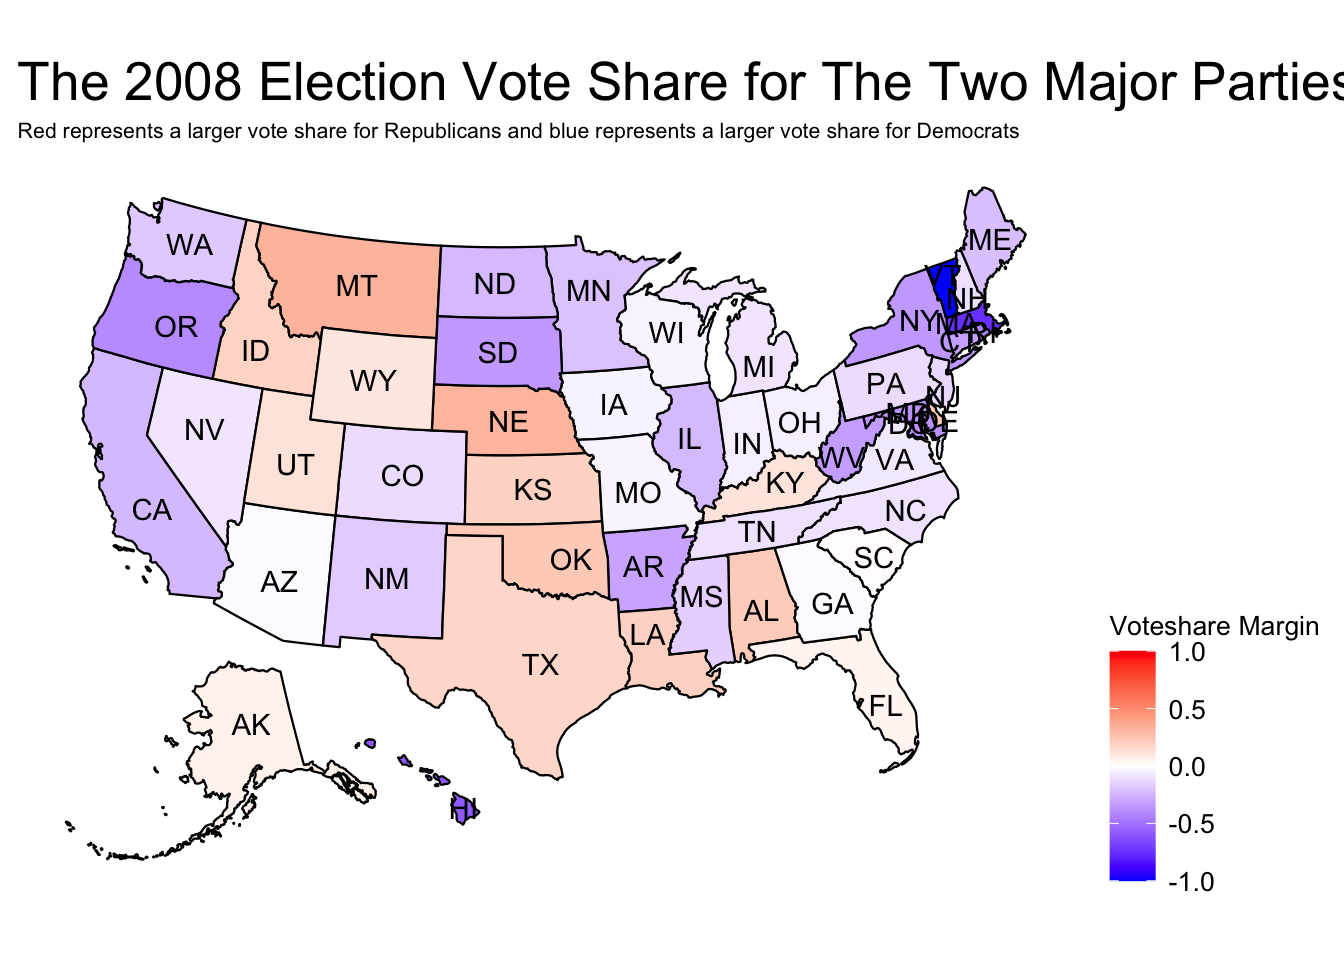
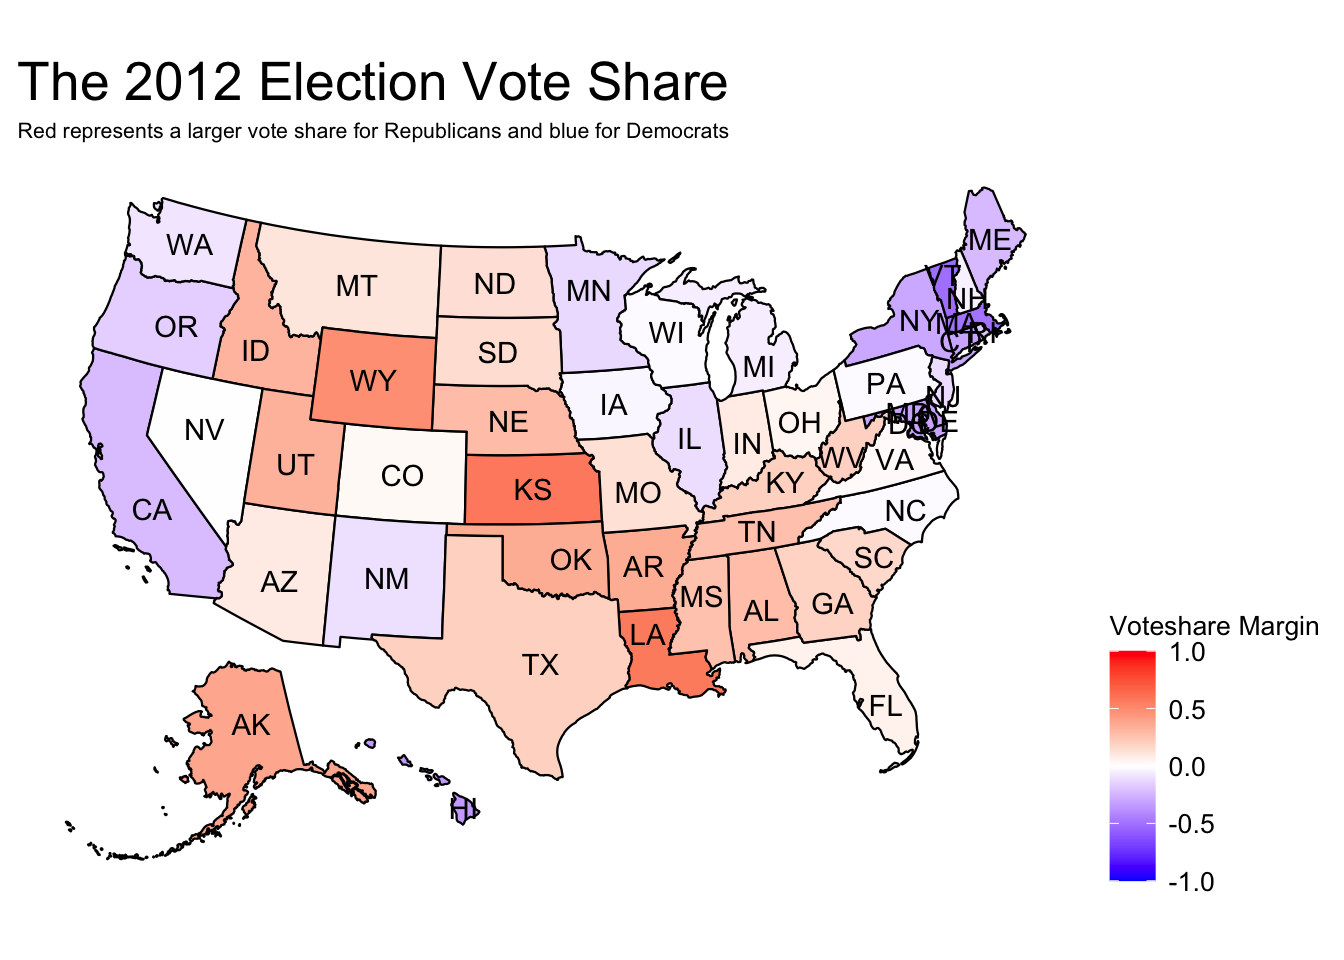
Added write-up for blog 1

diff --git a/public/post/2022-09-11-blog-1/index.html b/public/post/2022-09-11-blog-1/index.html
@@ -6,7 +6,7 @@
 		<meta charset="UTF-8">
 		<meta name="viewport" content="width=device-width, initial-scale=1.0">
 
-		<title>Blog 1 &middot; Amiel&#39;s Election Analytics Blog</title>
+		<title>2022 Midterm Forecast Introduction &middot; Amiel&#39;s Election Analytics Blog</title>
 
 		
 		<link rel="stylesheet" href="/css/style.css">
@@ -56,7 +56,7 @@
         <span>on&nbsp;</span><time datetime="2022-09-11 00:00:00 &#43;0000 UTC">September 11, 2022</time>
 </div>
 
-		<h1 class="post-title">Blog 1</h1>
+		<h1 class="post-title">2022 Midterm Forecast Introduction</h1>
 <div class="post-line"></div>
 
 		
@@ -64,8 +64,21 @@
 		
 
 
-<p><img src="http://example.org/post/2022-09-11-blog-1/index_files/figure-html/unnamed-chunk-5-1.png" width="672" /></p>
+<p><em>This blog is part of a series related to Gov 1347: Election Analytics, a course at Harvard University taught by Professor <a href="https://http://ryandenos.com/">Ryan D. Enos</a>.</em></p>
+<p>From now until November 3, I will be updating this weekly blog series with my 2022 US midterm election prediction model. For this first blog, I’ll be comparing the 2012 House election results to the 2014 House Midterm election results to find any trends in the data during a democratic presidential term. More specifically, I’ll be diving into the change seen from a presidential election year where a Democratic president was re-elected to the subsequent midterm election year and using that as a preliminary basis on what to base this year’s midterm forecasts on as we see a Democrat incumbent president this midterm year.</p>
+<p>This forecast will seek to answer the question, <strong>How do Democrats perform in the midterm elections when they are the incumbent party?</strong></p>
+<p>This analysis predicts that the party of the incumbent president typically performs poorly during the midterm elections and Democratic Party presidents are no exception. It is common knowledge among many political scientists, politicians, and pollsters that the incumbent party always does worse during the midterm election than in the presidential election and this analysis shows that this is true for Obama in 2012 and 2014 and is potentially what we can expect to see this year in 2022<sup>1</sup>.</p>
+<p><img src="http://example.org/post/2022-09-11-blog-1/index_files/figure-html/unnamed-chunk-5-1.png" width="672" />
+The Democrats can be seen to perform okay in the 2012 House elections with a number of states having vote-shares favorable toward the Democrats compared to the 2010 election. This can also be observed by the Democrats picking up 8 seats in the House since 2010, although they are still the minority party in the House with the Republicans still on 234 seats. There are a number of states that show no tilt in vote-share toward either the Democrats or Republicans in this year such as Nevada, Colorado, Iowa, Wisconsin, Pennsylvania, Virginia, and North Carolina. There is a strong vote share for Republicans in Wyoming, Kansas, and Louisiana, and a strong vote share for Democrats in Massachusetts, Vermont, Delaware, and Maryland. This was a year in which a Democratic President was re-elected yet still did not have a majority in the House.</p>
 <p><img src="http://example.org/post/2022-09-11-blog-1/index_files/figure-html/unnamed-chunk-6-1.png" width="672" /><img src="http://example.org/post/2022-09-11-blog-1/index_files/figure-html/unnamed-chunk-6-2.png" width="672" /></p>
+<p>The 2014 midterm elections show a different story compared to 2012. The states that previously had no tilt in vote share toward either the Democrats or the Republicans now <strong>all</strong> show a higher vote share for the Republicans, suggesting that the Republicans actually performed better in these battleground states than they did in 2012, thus beating the Democrats. The Democrats still held onto some states, however, their vote shares in these states did in fact decrease since 2012 as can be seen by lighter blues in the map suggesting that the Democrats did not perform as well as they did in the 2012 election, both in states that they lost but also in states that they typically win<sup>2</sup>.</p>
+<p>When looking at the map of congressional districts in 2014, it can be seen that much of the Democrat vote share in 2014 is largely concentrated in urban areas and the Republicans have the upper-hand elsewhere. This is fairly common in elections where the Democrats perform much better in cities and urban cores and Republicans do better in more rural population areas<sup>3</sup>. Urban cores can be seen to have much more concentrated huge support for the Democrats with some reaching nearly 100% support, yet the rest of states outside of cities has more support for Republicans than Democrats, therefore making states tilt more Republican in 2014.</p>
+<p>By looking at the 2012 and 2014 vote share results, we can see that the Democrats performed worse in the midterm election than in the presidential election with the Republicans achieving a higher vote share than the Democrats in all of the battleground swing states and in previously safe Democratic states where they decreased the Democrat’s majority vote share in those states. This reaffirms political pundits and politicians’ views that the incumbent party always performs poorly in midterm elections and 2012-2014 is no exception. By applying this to the 2022 election, we can expect the Democrats, as the current incumbent party, to perform worse than in the 2020 election in which they gained the trifecta of the House, the Senate, and the presidency.</p>
+<hr />
+<p>References</p>
+<p>[1] McCarthy, Niall. n.d. “Historically, The President’s Party Performs Poorly In The Midterms [Infographic].” Forbes. Accessed September 15, 2022. <a href="https://www.forbes.com/sites/niallmccarthy/2018/10/09/historically-the-presidents-party-performs-poorly-in-the-midterms-infographic/" class="uri">https://www.forbes.com/sites/niallmccarthy/2018/10/09/historically-the-presidents-party-performs-poorly-in-the-midterms-infographic/</a>.
+[2] Rotondi, Jessica Pearce. n.d. “What Are Swing States and How Did They Become a Key Factor in US Elections?” HISTORY. Accessed September 15, 2022. <a href="https://www.history.com/news/swing-states-presidential-elections" class="uri">https://www.history.com/news/swing-states-presidential-elections</a>.
+[3] Thompson, Derek. 2020. “Why Big-City Dominance Is a Problem for Democrats.” The Atlantic. November 26, 2020. <a href="https://www.theatlantic.com/ideas/archive/2020/11/why-big-city-dominance-problem-democrats/617161/" class="uri">https://www.theatlantic.com/ideas/archive/2020/11/why-big-city-dominance-problem-democrats/617161/</a>.</p>
 
 
 		
@@ -81,7 +94,7 @@
         		<footer>
 			
 			<span>
-			&copy; <time datetime="2022-09-15 01:00:20.618071 -0400 EDT m=&#43;0.882534251">2022</time> . Made with <a href='https://gohugo.io'>Hugo</a> using the <a href='https://github.com/EmielH/tale-hugo/'>Tale</a> theme.
+			&copy; <time datetime="2022-09-15 02:44:34.192218 -0400 EDT m=&#43;1.053163543">2022</time> . Made with <a href='https://gohugo.io'>Hugo</a> using the <a href='https://github.com/EmielH/tale-hugo/'>Tale</a> theme.
 			</span>
 		</footer>
 

diff --git a/content/post/2022-09-11-blog-1/index.html b/content/post/2022-09-11-blog-1/index.html
@@ -1,5 +1,5 @@
 ---
-title: Blog 1
+title: 2022 Midterm Forecast Introduction
 author: Y. Amiel Bakshi
 date: '2022-09-11'
 slug: []
@@ -9,5 +9,18 @@ tags: []
 
 
 
-<p><img src="{{< blogdown/postref >}}index_files/figure-html/unnamed-chunk-5-1.png" width="672" /></p>
+<p><em>This blog is part of a series related to Gov 1347: Election Analytics, a course at Harvard University taught by Professor <a href="https://http://ryandenos.com/">Ryan D. Enos</a>.</em></p>
+<p>From now until November 3, I will be updating this weekly blog series with my 2022 US midterm election prediction model. For this first blog, I’ll be comparing the 2012 House election results to the 2014 House Midterm election results to find any trends in the data during a democratic presidential term. More specifically, I’ll be diving into the change seen from a presidential election year where a Democratic president was re-elected to the subsequent midterm election year and using that as a preliminary basis on what to base this year’s midterm forecasts on as we see a Democrat incumbent president this midterm year.</p>
+<p>This forecast will seek to answer the question, <strong>How do Democrats perform in the midterm elections when they are the incumbent party?</strong></p>
+<p>This analysis predicts that the party of the incumbent president typically performs poorly during the midterm elections and Democratic Party presidents are no exception. It is common knowledge among many political scientists, politicians, and pollsters that the incumbent party always does worse during the midterm election than in the presidential election and this analysis shows that this is true for Obama in 2012 and 2014 and is potentially what we can expect to see this year in 2022<sup>1</sup>.</p>
+<p><img src="{{< blogdown/postref >}}index_files/figure-html/unnamed-chunk-5-1.png" width="672" />
+The Democrats can be seen to perform okay in the 2012 House elections with a number of states having vote-shares favorable toward the Democrats compared to the 2010 election. This can also be observed by the Democrats picking up 8 seats in the House since 2010, although they are still the minority party in the House with the Republicans still on 234 seats. There are a number of states that show no tilt in vote-share toward either the Democrats or Republicans in this year such as Nevada, Colorado, Iowa, Wisconsin, Pennsylvania, Virginia, and North Carolina. There is a strong vote share for Republicans in Wyoming, Kansas, and Louisiana, and a strong vote share for Democrats in Massachusetts, Vermont, Delaware, and Maryland. This was a year in which a Democratic President was re-elected yet still did not have a majority in the House.</p>
 <p><img src="{{< blogdown/postref >}}index_files/figure-html/unnamed-chunk-6-1.png" width="672" /><img src="{{< blogdown/postref >}}index_files/figure-html/unnamed-chunk-6-2.png" width="672" /></p>
+<p>The 2014 midterm elections show a different story compared to 2012. The states that previously had no tilt in vote share toward either the Democrats or the Republicans now <strong>all</strong> show a higher vote share for the Republicans, suggesting that the Republicans actually performed better in these battleground states than they did in 2012, thus beating the Democrats. The Democrats still held onto some states, however, their vote shares in these states did in fact decrease since 2012 as can be seen by lighter blues in the map suggesting that the Democrats did not perform as well as they did in the 2012 election, both in states that they lost but also in states that they typically win<sup>2</sup>.</p>
+<p>When looking at the map of congressional districts in 2014, it can be seen that much of the Democrat vote share in 2014 is largely concentrated in urban areas and the Republicans have the upper-hand elsewhere. This is fairly common in elections where the Democrats perform much better in cities and urban cores and Republicans do better in more rural population areas<sup>3</sup>. Urban cores can be seen to have much more concentrated huge support for the Democrats with some reaching nearly 100% support, yet the rest of states outside of cities has more support for Republicans than Democrats, therefore making states tilt more Republican in 2014.</p>
+<p>By looking at the 2012 and 2014 vote share results, we can see that the Democrats performed worse in the midterm election than in the presidential election with the Republicans achieving a higher vote share than the Democrats in all of the battleground swing states and in previously safe Democratic states where they decreased the Democrat’s majority vote share in those states. This reaffirms political pundits and politicians’ views that the incumbent party always performs poorly in midterm elections and 2012-2014 is no exception. By applying this to the 2022 election, we can expect the Democrats, as the current incumbent party, to perform worse than in the 2020 election in which they gained the trifecta of the House, the Senate, and the presidency.</p>
+<hr />
+<p>References</p>
+<p>[1] McCarthy, Niall. n.d. “Historically, The President’s Party Performs Poorly In The Midterms [Infographic].” Forbes. Accessed September 15, 2022. <a href="https://www.forbes.com/sites/niallmccarthy/2018/10/09/historically-the-presidents-party-performs-poorly-in-the-midterms-infographic/" class="uri">https://www.forbes.com/sites/niallmccarthy/2018/10/09/historically-the-presidents-party-performs-poorly-in-the-midterms-infographic/</a>.
+[2] Rotondi, Jessica Pearce. n.d. “What Are Swing States and How Did They Become a Key Factor in US Elections?” HISTORY. Accessed September 15, 2022. <a href="https://www.history.com/news/swing-states-presidential-elections" class="uri">https://www.history.com/news/swing-states-presidential-elections</a>.
+[3] Thompson, Derek. 2020. “Why Big-City Dominance Is a Problem for Democrats.” The Atlantic. November 26, 2020. <a href="https://www.theatlantic.com/ideas/archive/2020/11/why-big-city-dominance-problem-democrats/617161/" class="uri">https://www.theatlantic.com/ideas/archive/2020/11/why-big-city-dominance-problem-democrats/617161/</a>.</p>

diff --git a/public/post/index.html b/public/post/index.html
@@ -50,11 +50,12 @@
 			<a href="http://example.org/post/2022-09-11-blog-1/" class="catalogue-item">
     <div>
         <time datetime="2022-09-11 00:00:00 &#43;0000 UTC" class="catalogue-time">September 11, 2022</time>
-        <h2 class="catalogue-title">Blog 1</h2>
+        <h2 class="catalogue-title">2022 Midterm Forecast Introduction</h2>
         <div class="catalogue-line"></div>
 
         <p>
-             
+            This blog is part of a series related to Gov 1347: Election Analytics, a course at Harvard University taught by Professor Ryan D. Enos.
+From now until November 3, I will be updating this weekly blog series with my 2022 US midterm election prediction model. For this first blog, I’ll be comparing the 2012 House election results to the 2014 House Midterm election results to find any trends in the data during a democratic presidential term.
         </p>
     </div>
 </a>
@@ -74,7 +75,7 @@
         		<footer>
 			
 			<span>
-			&copy; <time datetime="2022-09-15 01:00:19.963428 -0400 EDT m=&#43;0.227882709">2022</time> . Made with <a href='https://gohugo.io'>Hugo</a> using the <a href='https://github.com/EmielH/tale-hugo/'>Tale</a> theme.
+			&copy; <time datetime="2022-09-15 02:44:33.466652 -0400 EDT m=&#43;0.327597543">2022</time> . Made with <a href='https://gohugo.io'>Hugo</a> using the <a href='https://github.com/EmielH/tale-hugo/'>Tale</a> theme.
 			</span>
 		</footer>
 

diff --git a/public/index.html b/public/index.html
@@ -55,11 +55,12 @@
 			<a href="http://example.org/post/2022-09-11-blog-1/" class="catalogue-item">
     <div>
         <time datetime="2022-09-11 00:00:00 &#43;0000 UTC" class="catalogue-time">September 11, 2022</time>
-        <h2 class="catalogue-title">Blog 1</h2>
+        <h2 class="catalogue-title">2022 Midterm Forecast Introduction</h2>
         <div class="catalogue-line"></div>
 
         <p>
-             
+            This blog is part of a series related to Gov 1347: Election Analytics, a course at Harvard University taught by Professor Ryan D. Enos.
+From now until November 3, I will be updating this weekly blog series with my 2022 US midterm election prediction model. For this first blog, I’ll be comparing the 2012 House election results to the 2014 House Midterm election results to find any trends in the data during a democratic presidential term.
         </p>
     </div>
 </a>
@@ -79,7 +80,7 @@
         		<footer>
 			
 			<span>
-			&copy; <time datetime="2022-09-15 01:00:19.96342 -0400 EDT m=&#43;0.227874459">2022</time> . Made with <a href='https://gohugo.io'>Hugo</a> using the <a href='https://github.com/EmielH/tale-hugo/'>Tale</a> theme.
+			&copy; <time datetime="2022-09-15 02:44:33.466653 -0400 EDT m=&#43;0.327599126">2022</time> . Made with <a href='https://gohugo.io'>Hugo</a> using the <a href='https://github.com/EmielH/tale-hugo/'>Tale</a> theme.
 			</span>
 		</footer>
 

diff --git a/public/categories/index.html b/public/categories/index.html
@@ -57,7 +57,7 @@
         		<footer>
 			
 			<span>
-			&copy; <time datetime="2022-09-15 01:00:19.958012 -0400 EDT m=&#43;0.222466792">2022</time> . Made with <a href='https://gohugo.io'>Hugo</a> using the <a href='https://github.com/EmielH/tale-hugo/'>Tale</a> theme.
+			&copy; <time datetime="2022-09-15 02:44:33.461581 -0400 EDT m=&#43;0.322527126">2022</time> . Made with <a href='https://gohugo.io'>Hugo</a> using the <a href='https://github.com/EmielH/tale-hugo/'>Tale</a> theme.
 			</span>
 		</footer>
 

diff --git a/public/tags/index.html b/public/tags/index.html
@@ -57,7 +57,7 @@
         		<footer>
 			
 			<span>
-			&copy; <time datetime="2022-09-15 01:00:19.957977 -0400 EDT m=&#43;0.222431792">2022</time> . Made with <a href='https://gohugo.io'>Hugo</a> using the <a href='https://github.com/EmielH/tale-hugo/'>Tale</a> theme.
+			&copy; <time datetime="2022-09-15 02:44:33.461233 -0400 EDT m=&#43;0.322179460">2022</time> . Made with <a href='https://gohugo.io'>Hugo</a> using the <a href='https://github.com/EmielH/tale-hugo/'>Tale</a> theme.
 			</span>
 		</footer>
 
